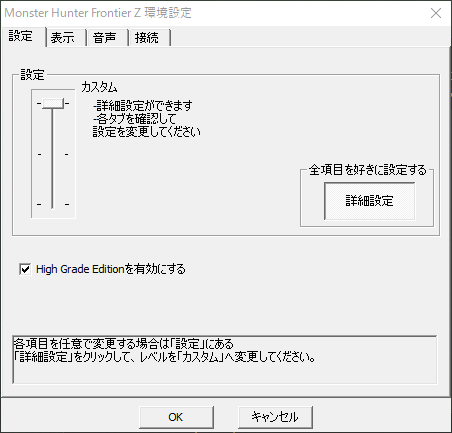
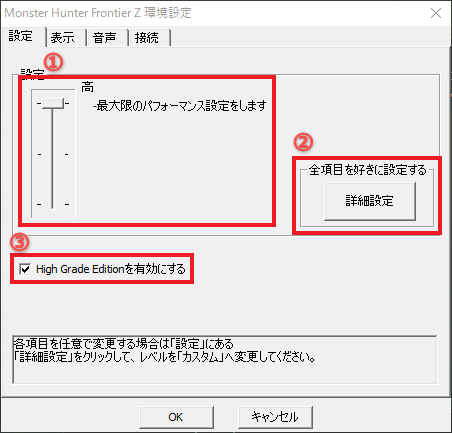
Add launcher config section

Changed region(s): [[0.0, 0.1201, 0.9912, 0.6605]]

diff --git a/src/lib/articles/contents/begin_start.svelte b/src/lib/articles/contents/begin_start.svelte
@@ -173,18 +173,42 @@
         <li class="center_box_no_number">
             <p class="center_box_no_number_text">【設定】タブ</p>
             <p class="center_box_no_number_img"><img src="/img/{$locale}/articles/begin/start/launcher_1.png" alt="launcher_1" /></p>
+            <ul class="img_desc_section">
+                <li class="img_desc_section_item">
+                    ①設定スライダ
+                    <p class="img_desc_section_text">表示タブおよび音声タブの設定に対してプリセット3種（「高」「中」「低」）から一つ選択できます。<br />詳細設定ボタンをオンにした際は選択不可となり、プリセット表記は「カスタム」と表示されます。</p>
+                </li>
+                <li class="img_desc_section_item">
+                    ②詳細設定ボタン
+                    <p class="img_desc_section_text">オンにすると、表示タブおよび音声タブにて設定を自由に変更することができます。<br />カスタム設定有効時には、設定スライダ内のプリセット表記が「カスタム」となります。</p>
+                </li>
+                <li class="img_desc_section_item">
+                    ③HGEチェックボックス
+                    <p class="img_desc_section_text">チェックを入れると、「High Grade Edition」が有効となります。</p>
+                </li>
+            </ul>
         </li>
         <li class="center_box_no_number">
             <p class="center_box_no_number_text">【表示】タブ</p>
-            <p class="center_box_no_number_img"><img src="" alt="launcher_2" /></p>
+            <p class="center_box_no_number_img"><img src="/img/{$locale}/articles/begin/start/launcher_2.png" alt="launcher_2" /></p>
+            <ul class="img_desc_section">
+                <li class="img_desc_section_item">
+                    ①画面サイズ設定
+                    <p class="img_desc_section_text">「起動モード」にてゲーム開始時の画面モードを、「ウィンドウモード」もしくは「フルスクリーンモード」から選択し、「画面サイズ」にて各画面モードでの画面サイズの指定ができます。</p>
+                </li>
+                <li class="img_desc_section_item">
+                    ②圧縮テクスチャ
+                    <p class="img_desc_section_text">DXTC（画像圧縮技術）の有効もしくは無効を選択します。<br />「有効」では、画像処理は速くなる一方、画像細部が粗くなります。<br>「無効」では、画像処理は遅くなる一方、画像細部が高精細になります。</p>
+                </li>
+            </ul>
         </li>
         <li class="center_box_no_number">
             <p class="center_box_no_number_text">【音声】タブ</p>
-            <p class="center_box_no_number_img"><img src="" alt="launcher_3" /></p>
+            <p class="center_box_no_number_img"><img src="/img/{$locale}/articles/begin/start/launcher_3.png" alt="launcher_3" /></p>
         </li>
         <li class="center_box_no_number">
             <p class="center_box_no_number_text">【接続】タブ</p>
-            <p class="center_box_no_number_img"><img src="" alt="launcher_4" /></p>
+            <p class="center_box_no_number_img"><img src="/img/{$locale}/articles/begin/start/launcher_4.png" alt="launcher_4" /></p>
         </li>
     </ul>
 </section>
@@ -192,60 +216,43 @@
 <section id="29ae62f6121aa1cfa1b080fda4cd60f0">
     <h2>ログイン・ゲーム開始</h2>
 
+    <div class="check_contents_with_link">
+        <ul class="check_contents_with_link_list">
+            <li class="check_contents_with_link_list_item">
+                <p class="check_contents_list_text">マルチコアプロセッサーを搭載したパソコンでは、1台のパソコンでゲームプログラムを2つ起動してプレイすることができます。</p>
+                <!-- svelte-ignore a11y-missing-attribute -->
+                ＞＞<a class="check_contents_list_link">ゲームの多重起動</a>
+            </li>
+        </ul>
+    </div>
+
     <ul>
         <li class="center_box">
-            <p>（1）デスクトップ上にある「モンスターハンター フロンティア オンライン」のアイコンをクリックします。</p>
-            <p class="center_box_img">
-                <img src="" alt="login_1" />
-            </p>
-
-            <div class="check_contents">
-                <ul class="check_contents_list">
-                    <li class="check_contents_list_text">・マルチコアプロセッサーを搭載したパソコンでは、1台のパソコンでゲームプログラムを2つ起動してプレイすることができます。</li>
-                    <!-- svelte-ignore a11y-missing-attribute -->
-                    <li class="check_contents_list_text">＞＞<a style="text-decoration:underline;">ゲームの多重起動</a>＜＜</li>
-                </ul>
-            </div>
+            <p class="center_box_text">（1）デスクトップ上にある「モンスターハンター フロンティア オンライン」のアイコンをクリックします。</p>
         </li>
-        <div class="subsection">
-            <div class="imgBox">
-                <img width="268" src="img/page18/18_19.jpg" alt="" />
-                <p><strong>（２）</strong>nProtect GameGuardが自動的に設定されます。</p>
-                <p>&nbsp;</p>
-                <p class="notice check">
-                    ※nProtect GameGuardとは、ゲームを安全に遊んでいただくためのセキュリティソフトのことです。nProtect
-                    GameGuardはパソコンのタスクバーに常駐され、規約違反に該当する不正行為があるかをチェックしています。不正行為が発見された場合には、ゲームが強制的に終了されます。
-                </p>
-            </div>
-        </div>
-        <div class="subsection">
-            <div class="imgBox">
-                <img width="268" height="212" src="img/page18/19.jpg" alt="" />
-                <p><strong>（３）</strong>ご使用のパソコンによっては、パソコンランチャーの起動前に「ユーザー アカウント制御」の画面が表示されます。ここでは、「許可」をクリックします。</p>
-            </div>
-        </div>
-        <div class="subsection">
-            <div class="imgBox">
-                <img width="268" src="img/page18/18_20.jpg" alt="" />
-                <p>
-                    <strong>（４）</strong>ランチャー画面が起動します。<br />
-                    上記の図の赤枠内にCOG IDとパスワードを入力し、［ログイン］ボタンをクリックするとログインが行なわれ、アップデートが開始されます。
-                </p>
-            </div>
-        </div>
-        <div class="subsection">
-            <div class="imgBox">
-                <p class="clear-l">&nbsp;</p>
-                <p class="center"><img width="268" src="img/page18/18_21.jpg" alt="ランチャー画面" /></p>
-                <p><strong>（５）</strong>ゲームスタートを押すとゲームにログインします。</p>
-            </div>
-        </div>
-        <div class="subsection">
-            <div class="imgBox">
-                <img width="268" height="201" src="img/page18/18_22.jpg" alt="" />
-                <p><strong>（６）</strong>ゲームのタイトル画面が表示されます。［Enter］キーを押す、または画面をクリックすると、メニューが出現します。</p>
-            </div>
-        </div>
+        <li class="center_box">
+            <p class="center_box_text">
+                （2）ランチャー画面が起動します。<br />
+                赤枠内にユーザー名とパスワードを入力し、「ログイン」ボタンをクリックするとログインが行なわれ、アップデートもしくはファイルチェックが開始されます。
+            </p>
+            <p class="center_box_img">
+                <img src="/img/{$locale}/articles/begin/start/login_2.png" alt="login_2" />
+            </p>
+        </li>
+        <li class="center_box">
+            <p class="center_box_text">
+                （3）キャラクターを選択し、「ゲームスタート」を押すとMHFが起動します。<br />初期状態では下図のように「<span style="color: blue;">狩人申請可能</span>」のみが表示されます。
+            </p>
+            <p class="center_box_img">
+                <img src="/img/{$locale}/articles/begin/start/login_3.png" alt="login_3" />
+            </p>
+        </li>
+        <li class="center_box">
+            <p class="center_box_text">（4）ゲームのタイトル画面では、Enterキーを押す、もしくは画面をクリックすると、タイトルメニューが表示されます。</p>
+            <p class="center_box_img">
+                <img src="/img/{$locale}/articles/begin/start/login_4.png" alt="login_4" />
+            </p>
+        </li>
     </ul>
 </section>
 

diff --git a/static/sass/manual/_pc.scss b/static/sass/manual/_pc.scss
@@ -664,6 +664,7 @@
     .section_inrto_box {
         margin-bottom: 10%;
 
+        // テキスト
         .intro_box_text {
             padding-bottom: 2%;
         }
@@ -674,12 +675,46 @@
         margin: 0;
         margin-bottom: 5%;
 
+        // テキスト
         .center_box_no_number_text {
             font-weight: 700;
             padding-bottom: 1%;
         }
+
+        // 画像設定
         .center_box_no_number_img {
             display: inline-block;
+        }
+    }
+
+    // 画像に対する説明文
+    .img_desc_section {
+        --x-gradient: linear-gradient(90deg, #6bec9c 0 25px, transparent 0 calc(100% - 25px), #6bec9c calc(100% - 25px));
+        --y-gradient: linear-gradient(#6bec9c 0 25px, transparent 0 calc(100% - 25px), #6bec9c calc(100% - 25px));
+        outline: 2px solid;
+        outline-offset: -5px;
+        background-image: var(--x-gradient), var(--y-gradient), var(--x-gradient), var(--y-gradient);
+        background-repeat: no-repeat;
+        background-size: 100% 3px, 3px 100%, 100% 3px, 3px 100%;
+        background-position: top, right, bottom, left;
+        margin: 1% 0;
+
+        // 個別アイテム
+        .img_desc_section_item {
+            padding: 1% 2%;
+            border-top: black solid 2px;
+            color: red;
+
+            // テキスト
+            .img_desc_section_text {
+                padding-left: 1em;
+                color: black;
+            }
+
+            // アイテム一番目トップボーダーなし
+            &:nth-child(1) {
+                border-top: 0;
+            }
         }
     }
 
@@ -783,8 +818,67 @@
             color: white;
             line-height: 2;
 
+            // テキスト
             .check_contents_list_text {
                 text-indent: -1em;
+            }
+        }
+    }
+
+    // 記事内Check（リンク付き）
+    .check_contents_with_link {
+        position: relative;
+        padding: 4% 7%;
+        margin: 15% 0;
+        border-top: 2px solid white;
+        border-bottom: 2px solid white;
+        box-shadow: 0 0 0 2rem #fdb979;
+        background-color: #f19b4a;
+
+        // 目次タイトル
+        &::before {
+            content: '';
+            position: absolute;
+            top: -35%;
+            left: -10%;
+            width: 16%;
+            aspect-ratio: 1 / 1;
+            background: url(#{$path_img}/common/check_mark.webp) center center no-repeat;
+            background-size: 100%;
+            font-size: 1.8rem;
+        }
+
+        // 目次リスト
+        .check_contents_with_link_list {
+            color: white;
+            line-height: 2;
+
+            // リストアイテム
+            .check_contents_with_link_list_item {
+                display: flex;
+                flex-direction: row;
+                flex-wrap: nowrap;
+                align-items: center;
+                padding-top: 3%;
+
+                // テキスト
+                .check_contents_list_text {
+                    text-align: start;
+                    margin-right: 5%;
+                    width: 700px;
+                }
+
+                // リンク
+                .check_contents_list_link {
+                    text-decoration: underline;
+                    margin-left: 5%;
+                    white-space: nowrap;
+                }
+
+                // アイテム一番目上部余白なし
+                &:nth-child(1) {
+                    padding-top: 0;
+                }
             }
         }
     }
